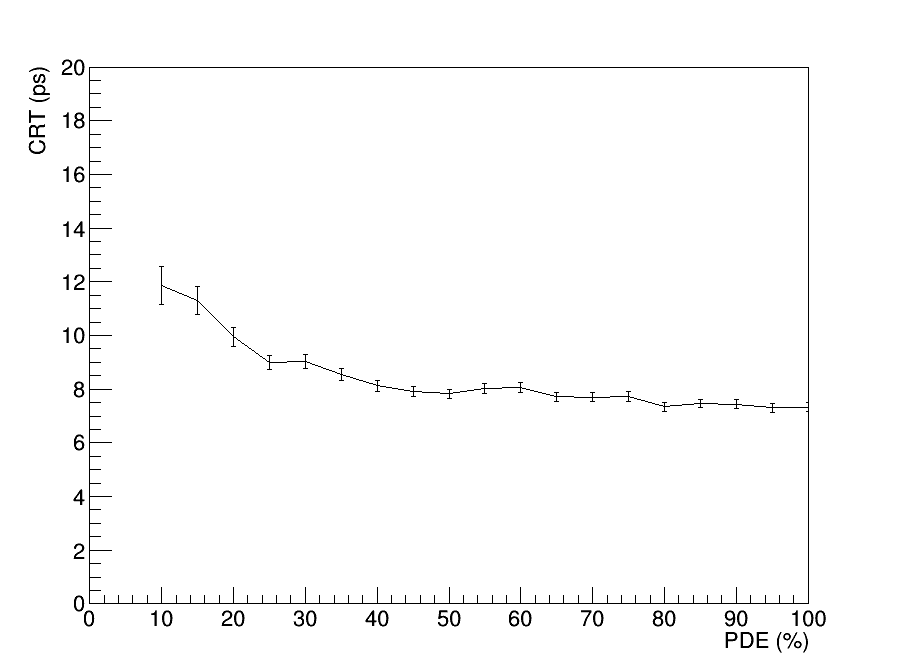
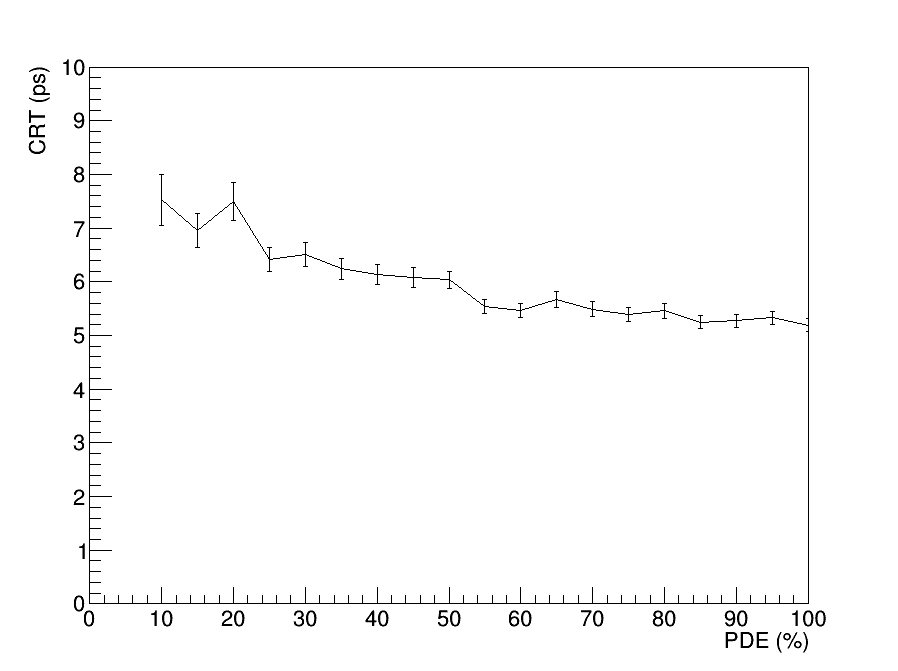
Update PDE plot (and script)

diff --git a/plots/pdeMinWL.py b/plots/pdeMinWL.py
@@ -1,4 +1,4 @@
-import petaloAnalysis
+#import petaloAnalysis
 from ROOT import *
 import numpy as np
 import pandas as pd
@@ -29,26 +29,26 @@ for minwl in xrange(150,450,50):
     errors[minwl] = []
     for pde in xrange(10,105,5):
 #    result = petalo.computeDTOF(vel)
-        result = collection.find_one({'vel': 210, 'pde': pde, 'minwl': minwl, 'maxwl': 1500, 'asic': 0, 'sptr': 0})
-        
+        result = collection.find_one({'vel': 210, 'pde': pde, 'minwl': minwl, 'maxwl': 1500, 'asic': 0, 'sptr': 0, "avg" : {"$exists" : False}})
+
         gStyle.SetOptStat(1110)
         gStyle.SetOptFit(1)
-        
+
         h1 = TH1F("h1", "PETALO", 80,-100,100)
-        
+
         for n in result['dtof']:
             h1.Fill(n)
-        
+
         gauF1 = TF1("gauF1","gaus",-200,200)
         h1.Fit("gauF1","","e",-10,10);
         h1.Draw()
         c1.Print('plots/minwl/minwl_' + str(minwl) + '_pde_' + str(pde) + '.png')
-    
+
         sigma = h1.GetFunction("gauF1").GetParameter(2)
         error = h1.GetFunction("gauF1").GetParError(2)
         sigmas[minwl].append(sigma)
         errors[minwl].append(error)
-    
+
 
 #Plot
 c2 = TCanvas("c2","multipads",900,700);
@@ -61,7 +61,7 @@ for index,minwl in enumerate(xrange(150,450,50)):
     sigma = array('f', sigmas[minwl])
     error = array('f', errors[minwl])
     zeros = array('f', np.zeros(len(pdes)))
-    
+
     pdePlot = TGraphErrors(len(pdes), pdes, sigma,zeros, error)
 
     pdePlot.SetLineColor(colors[index%20]);

diff --git a/plots/pdePlot.py b/plots/pdePlot.py
@@ -1,4 +1,4 @@
-import petaloAnalysis
+#import petaloAnalysis
 from ROOT import *
 import numpy as np
 import pandas as pd
@@ -24,16 +24,16 @@ errors = []
 
 for pde in xrange(10,105,5):
 #    result = petalo.computeDTOF(vel)
-    result = collection.find_one({'vel': 210, 'pde': pde, 'minwl': 0, 'maxwl': 1500, 'asic': 0, 'sptr': 0})
-        
+    result = collection.find_one({'vel': 210, 'pde': pde, 'minwl': 150, 'maxwl': 1500, 'asic': 0, 'sptr': 0, "avg": {"$exists": False}})
+
     gStyle.SetOptStat(1110)
     gStyle.SetOptFit(1)
     h1 = TH1F("h1", "PETALO", 80,-100,100)
     for n in result['dtof']:
         h1.Fill(n)
-    
+
     gauF1 = TF1("gauF1","gaus",-200,200)
-    h1.Fit("gauF1","","e",-15,15);
+    h1.Fit("gauF1","","e",-10,10);
     h1.Draw()
     c1.Print('plots/pde/' + str(pde) + '.png')
 
@@ -57,7 +57,7 @@ pdePlot.GetXaxis().SetTitle("PDE (%)");
 pdePlot.GetXaxis().SetLimits(0,100);
 pdePlot.GetYaxis().SetTitle("CRT (ps)");
 pdePlot.SetMinimum(0.);
-pdePlot.SetMaximum(20.);
+pdePlot.SetMaximum(10.);
 
 
 
